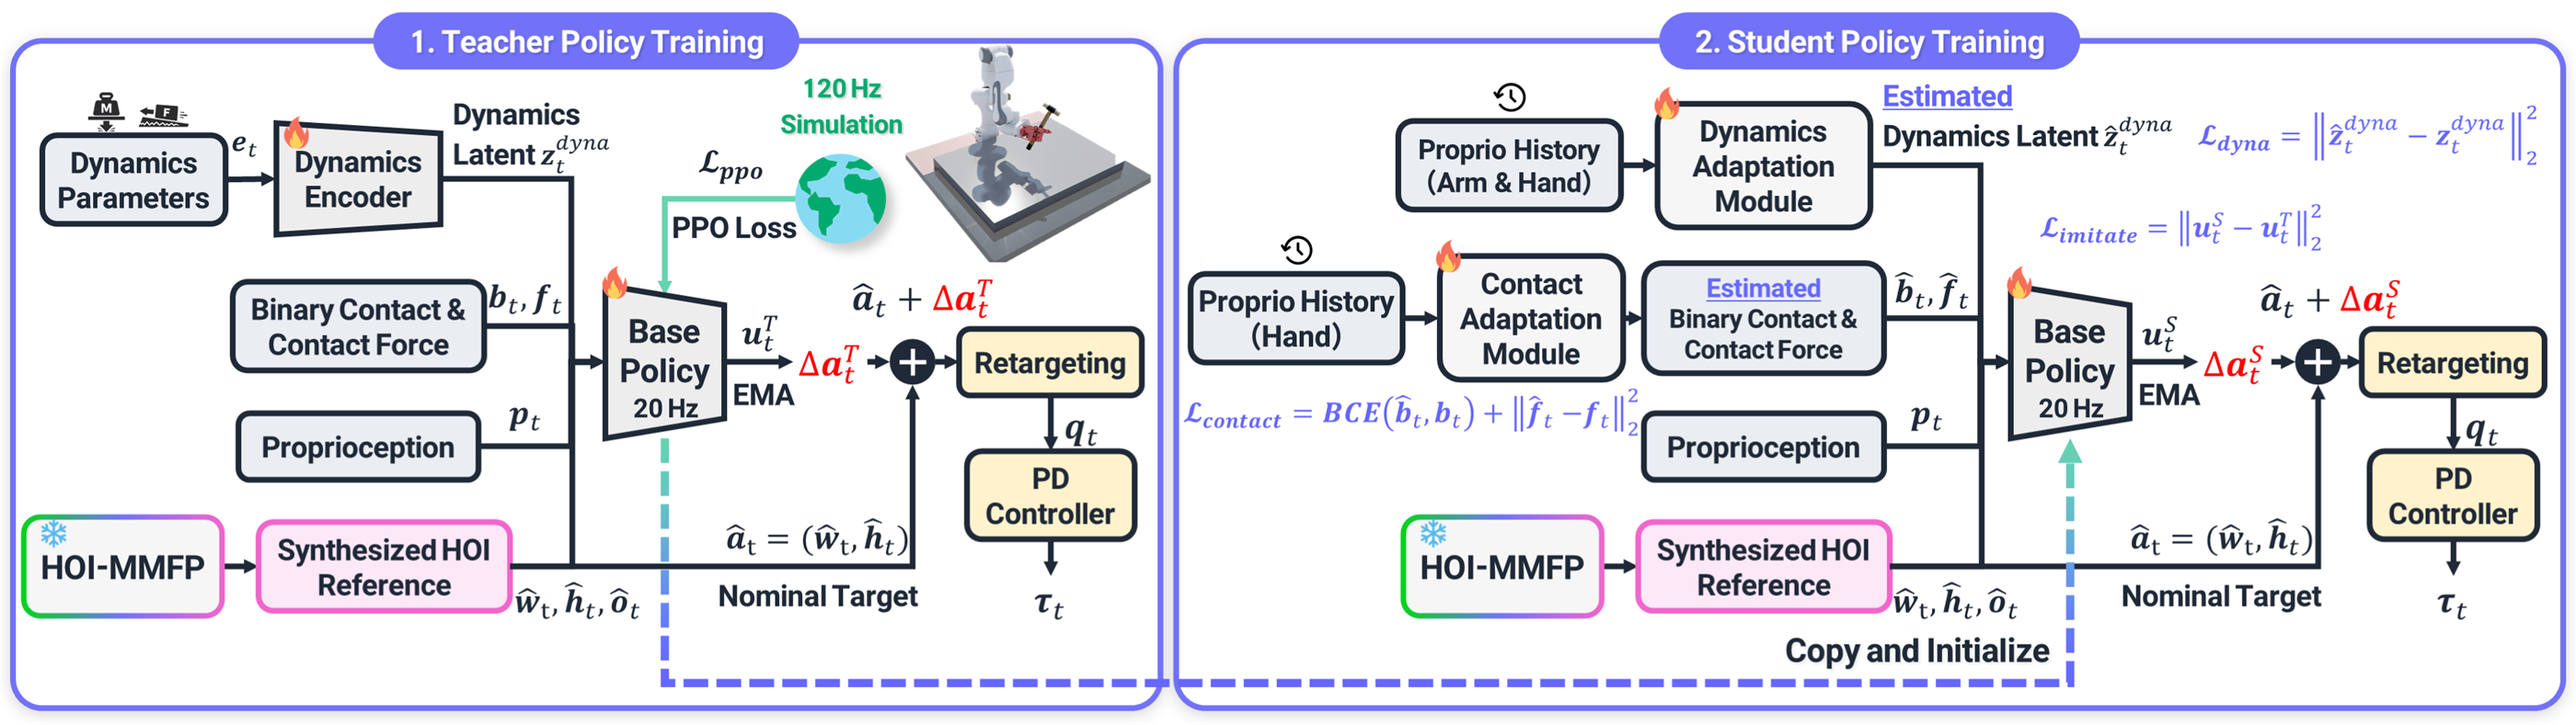
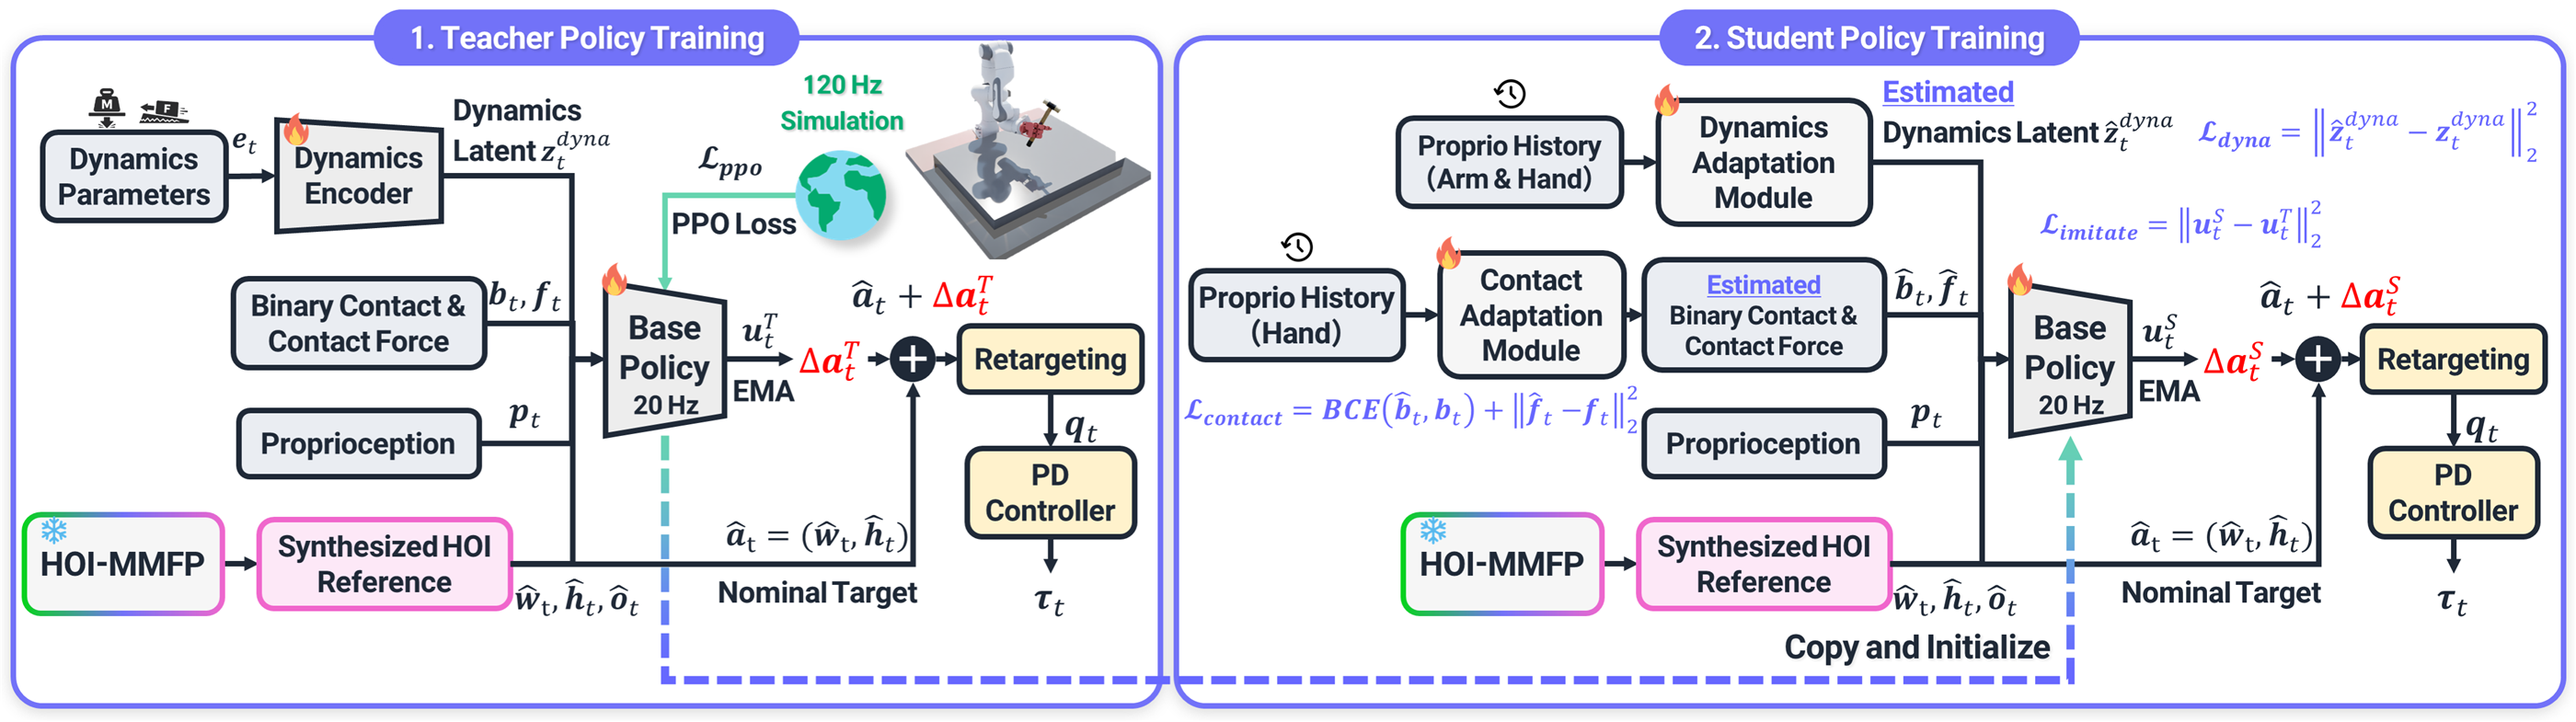
Use the paper's HOI-MMFP and residual-RL figures with original connectors
Header labels (a)/(b) removed; layout and arrows unchanged from the paper figure.

diff --git a/index.html b/index.html
@@ -195,8 +195,8 @@
       <h2 class="title is-3">HOI-MMFP: HOI Motion Synthesis</h2>
       <p class="section-lead">From seven recordings per task, object-centric augmentation produces about 300 trajectories. A Transformer autoencoder compresses each coupled wrist&ndash;hand&ndash;object trajectory into a 16-D <strong>motion manifold</strong>, and <strong>conditional latent flow matching</strong> generates a new latent from the task embedding and the initial object pose. The frozen decoder turns it into a synthetic HOI reference.</p>
       <figure class="paper-figure">
-        <img src="static/images/figure_2.png" alt="HOI-MMFP architecture" loading="lazy" style="width: min(96vw, 1180px);"/>
-        <figcaption>Top: a trajectory autoencoder learns the motion manifold. Bottom: the task embedding and initial object pose condition a Diffusion Transformer that generates a latent, which the copied, frozen decoder maps to a synthetic HOI trajectory.</figcaption>
+        <img src="static/images/figure_2.png" alt="HOI-MMFP architecture" loading="lazy" style="width: min(98vw, 1300px);"/>
+        <figcaption>Left: a trajectory autoencoder learns the motion manifold. Right: the task embedding and initial object pose condition a Diffusion Transformer that generates a latent, which the copied, frozen decoder maps to a synthetic HOI trajectory.</figcaption>
       </figure>
     </div>
   </section>
@@ -312,7 +312,7 @@
       <h2 class="title is-3">Task-Space Residual Refinement</h2>
       <p class="section-lead">A privileged teacher learns bounded <strong>task-space residuals</strong> that correct the wrist and fingertip targets of the synthesized reference while preserving its interaction structure. A deployable student, initialized from the teacher, replaces the privileged contact and dynamics inputs with <strong>estimates from proprioceptive history</strong>, so no simulator-only state is needed on the real robot.</p>
       <figure class="paper-figure">
-        <img src="static/images/figure_3.png" alt="Teacher and student residual RL" loading="lazy" style="width: min(98vw, 1280px);"/>
+        <img src="static/images/figure_3.png" alt="Teacher and student residual RL" loading="lazy" style="width: min(98vw, 1300px);"/>
         <figcaption>Teacher (left) and student (right) policy training. The nominal target comes from the fixed HOI-MMFP reference; the policy adds a residual &Delta;a<sub>t</sub> before retargeting and PD control.</figcaption>
       </figure>
     </div>
